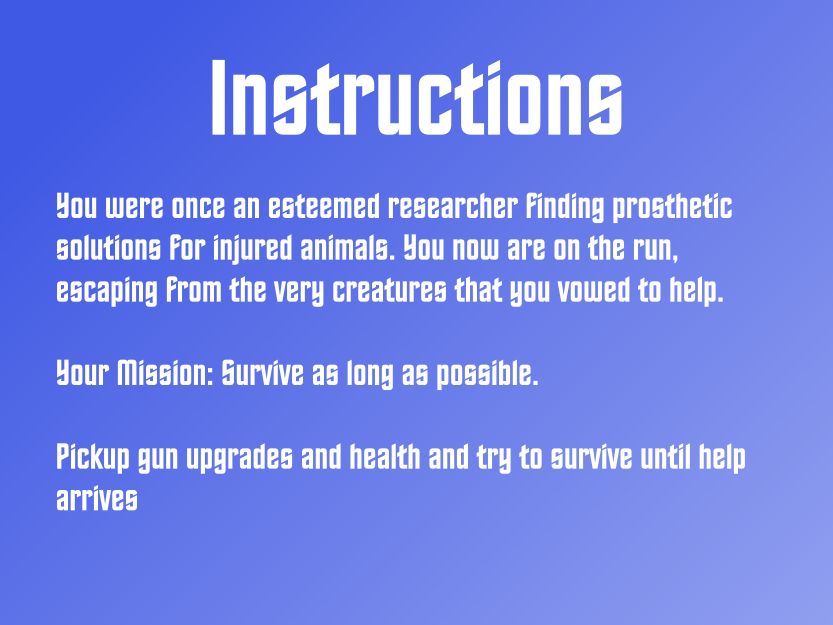
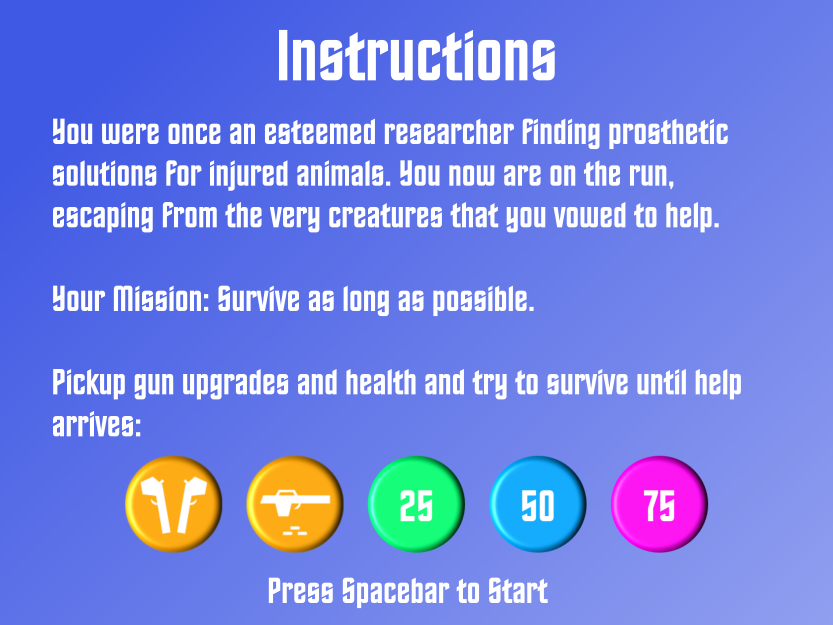
adding controls screen

Changed region(s): [[0.0624, 0.0304, 0.8739, 0.5168], [0.0624, 0.5776, 0.9052, 0.8816], [0.3121, 0.912, 0.6555, 0.9728]]

diff --git a/load.js b/load.js
@@ -10,7 +10,7 @@ var loadState = {
 	    game.load.image('rude', 'assets/rude.png');
 	    game.load.image('rock', 'assets/maps/rock.png');
 	    game.load.spritesheet('player', 'assets/player_sheet.png', 32, 32, 14);
-	    game.load.image('gorilla', 'assets/Gorilla_1.png');
+	    game.load.spritesheet('gorilla', 'assets/gorilla_sheet.png', 60, 110, 9);
 	    game.load.image('grass', 'assets/maps/grass_small.png');
 	    game.load.image('health_25', 'assets/health_25.png');
 	    game.load.image('health_50', 'assets/health_50.png');
@@ -31,6 +31,7 @@ var loadState = {
 	    game.load.image('menu_background', 'assets/start_menu.png');
 	    game.load.image('level_exit', 'assets/level_exit.png');
         game.load.image('instructions_screen', 'assets/instructions_screen.png');
+        game.load.image('control_screen', 'assets/control_screen.png');
 	    //game.renderer.renderSession.roundPixels = true;
 	},
 
@@ -61,9 +62,7 @@ var stashed_check = false;
 var reloadText;
 weapons = [];
 var tier_one_kills = 0;
-var TIER_ONE_ENEMIES = 20;
-var TIER_TWO_ENEMIES = 30;
-var TIER_THREE_ENEMIES = 40;
+var TIER_ONE_ENEMIES = 1;
 
 
 function load_level1() {

diff --git a/level1.js b/level1.js
@@ -70,9 +70,6 @@ var level1State = {
         }
 
         // Initalizing Player
-        //player.reset();
-        
-        console.log('Now in level 1');
         player = game.add.sprite(200, 400, 'player');
         //player.y = 200;
         player.anchor.setTo(.5, .5);
@@ -136,9 +133,6 @@ var level1State = {
     },
 
     update: function() {
-
-        //console.log('X: ' + player.x);
-        //console.log('Y ' + player.y);
 
         game.physics.arcade.collide(player, edges);
         game.physics.arcade.collide(player, obstacles);
@@ -285,6 +279,7 @@ var level1State = {
         });
 
         gorillas.forEach(function(gorilla) {
+            gorilla.animations.play('walk', 10, true);
             game.physics.arcade.collide(gorillas, gorillas);
             game.physics.arcade.overlap(gorillas, gorillas, enemy_collide, null, this);
             gorilla.angle = game.physics.arcade.accelerateToObject(gorilla, player, 200, 200, 200);

diff --git a/index.html b/index.html
@@ -11,6 +11,7 @@
     <script type="text/javascript" src='load.js'></script>
     <script type="text/javascript" src='level1.js'></script>
     <script type="text/javascript" src='instructions.js'></script>
+    <script type="text/javascript" src='controls.js'></script>
     <script type="text/javascript" src='menu.js'></script>
     <script type="text/javascript" src='game.js'></script>
     <script type="text/javascript" src='powerups.js'></script>

diff --git a/controls.js b/controls.js
@@ -1,12 +1,12 @@
-var instructionsState = {
+var controlState = {
 	create: function() {
-		var background = game.add.sprite(-5, 0, 'instructions_screen');
+		var background = game.add.sprite(-5, 0, 'control_screen');
 		var start_key = game.input.keyboard.addKey(Phaser.Keyboard.SPACEBAR);
 		start_key.onDown.addOnce(this.start, this);
 		
 	},
 
 	start: function() {
-		game.state.start('controls');
+		game.state.start('level1');
 	}
 };

diff --git a/game.js b/game.js
@@ -5,6 +5,7 @@ game.state.add('load', loadState);
 game.state.add('menu', menuState);
 game.state.add('level1', level1State);
 game.state.add('instructions', instructionsState);
+game.state.add('controls', controlState);
 //game.state.add('win', bootState);
 
 game.state.start('boot');

diff --git a/gorilla.js b/gorilla.js
@@ -24,6 +24,7 @@ function Gorilla(group, x, y, player) {
     var player = player;
     gorilla.position.x = x;
     gorilla.position.y = y;
+    gorilla.animations.add('walk');
     gorilla.scale.setTo(1, 1);
     gorilla.anchor.setTo(0.5, 0.5);
     gorilla.health = 5;

diff --git a/boot.js b/boot.js
@@ -2,6 +2,5 @@ var bootState = {
 	create: function() {
 		game.physics.startSystem(Phaser.Physics.Arcade);
 		game.state.start('load');
-		console.log('booting');
 	}
 };
